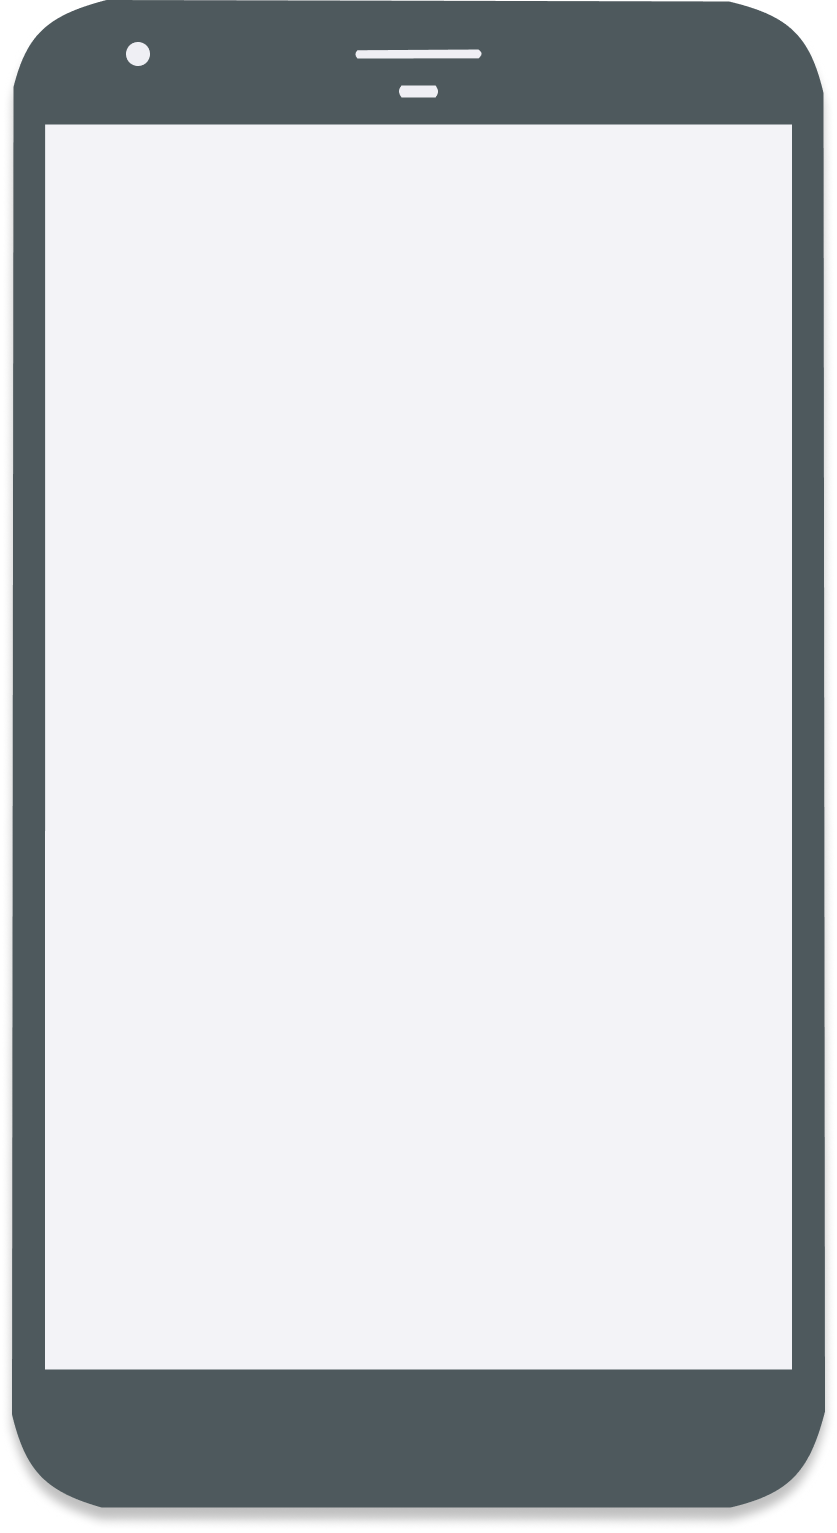
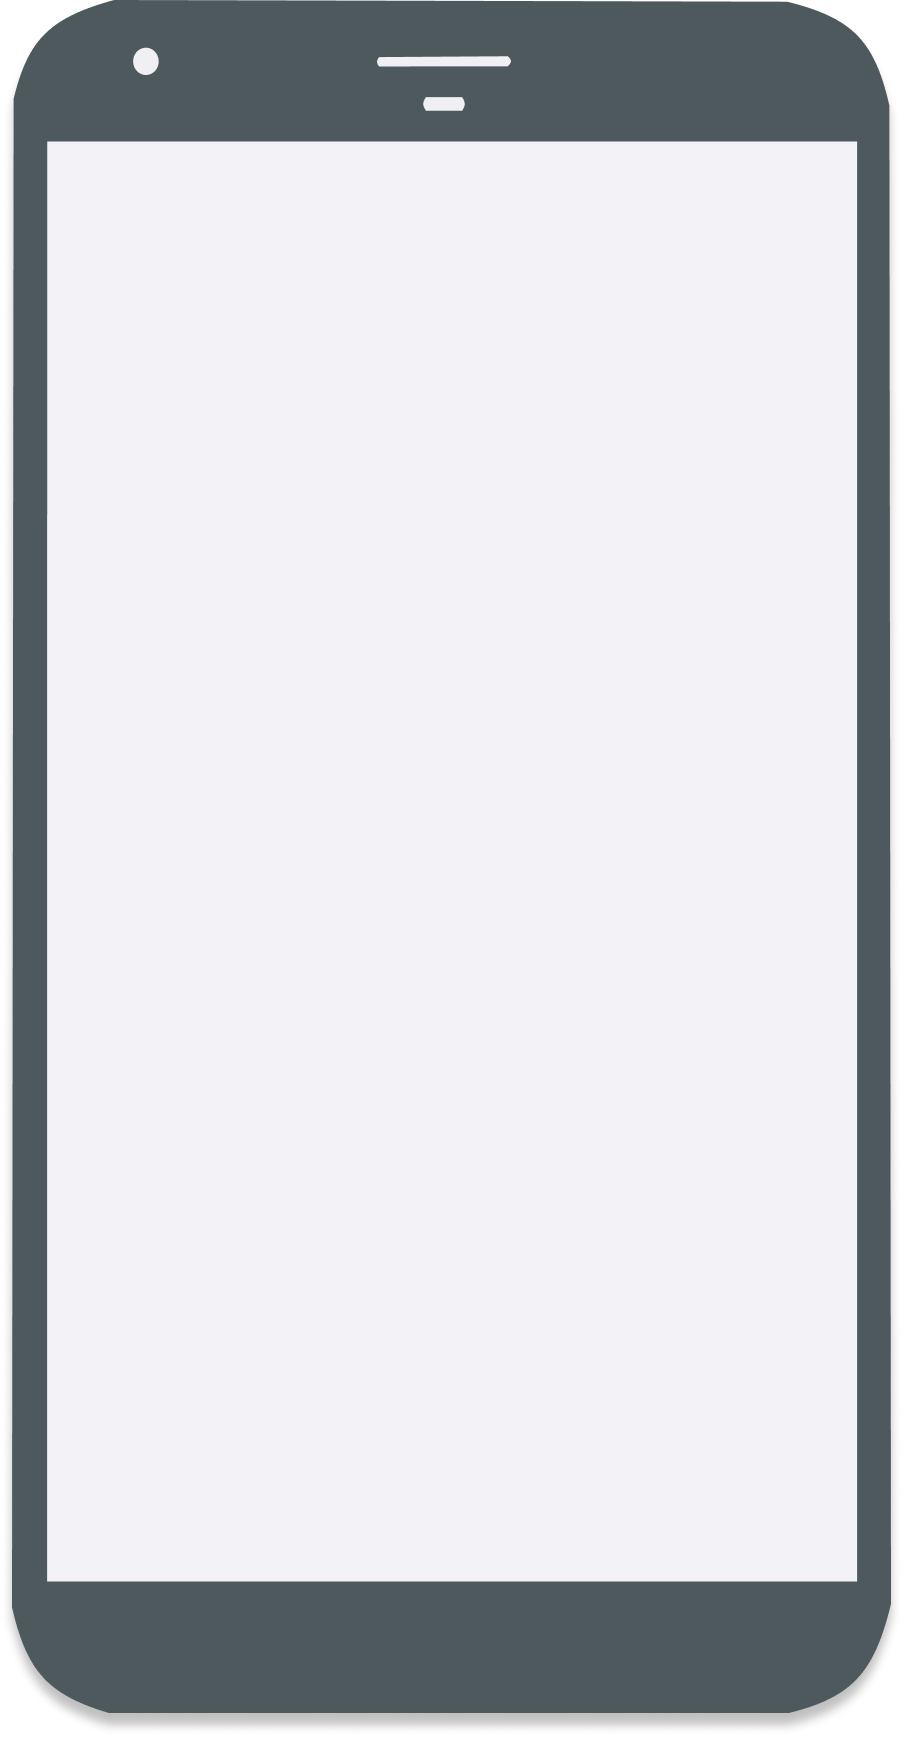
Add gif with hardcoded css

diff --git a/css/e8tbot.min.css b/css/e8tbot.min.css
@@ -1,5 +1,5 @@
 /*!
- * Start Bootstrap - E-8T Website v1.0.0 (https://lyzs90.github.io/e8tbot)
+ * Start Bootstrap - E-8T Website v1.0.0 (https://lyzs90.github.io/e8tbot-site)
  * Copyright 2013-2016 lyzs90
- * Licensed under MIT (https://github.com/lyzs90/e8tbot/LICENSE)
- */.alt-font,.btn{text-transform:uppercase}.heading-font{font-family:Catamaran,Helvetica,Arial,sans-serif;font-weight:200;letter-spacing:1px}.body-font{font-family:Muli,Helvetica,Arial,sans-serif}.alt-font{font-family:Lato,Helvetica,Arial,sans-serif;letter-spacing:2px}body,html{height:100%;width:100%}body{font-family:Muli,Helvetica,Arial,sans-serif;webkit-tap-highlight-color:#222}a{-webkit-transition:all .35s;-moz-transition:all .35s;transition:all .35s;color:#e57501}a:focus,a:hover{color:#b25b01}hr{max-width:100px;margin:25px auto 0;border-width:1px;border-color:rgba(34,34,34,.1)}hr.light{border-color:#fff}h1,h2,h3,h4,h5,h6{font-family:Catamaran,Helvetica,Arial,sans-serif;font-weight:200;letter-spacing:1px;color:#4E595D}p{font-size:18px;line-height:1.5;margin-bottom:20px}.invisible{visibility:hidden}header{position:relative;width:100%;min-height:auto;color:#fff}header .header-content{text-align:center;padding:0 0 50px;position:relative}header .header-content .header-content-inner{position:relative;max-width:500px;margin:0 auto}header .header-content .header-content-inner h1{margin-top:0;margin-bottom:0;font-size:30px}header .header-content .header-content-inner h1:after{display:inline-block;content:"";height:60px;width:60px;background:url(../img/e8t-logo.png) no-repeat;background-size:100%;vertical-align:-50%}header .header-content .header-content-inner hr.bar{border-color:gray;margin-top:10px;border-width:3px;max-width:50px}header .header-content .header-content-inner h3{margin-top:20px}header .img-responsive.device{margin:0 auto 100px;max-width:300px;max-height:550px}@media (min-width:768px){body,html{overflow-y:hidden}header{min-height:100%}header .header-content{text-align:left;padding:0;height:300vh}header .header-content .header-content-inner{max-width:none;margin:0;position:absolute;top:10%;transform:translateY(-50%)}header .header-content .header-content-inner h1{font-size:35px}header .header-content .header-content-inner hr.bar{margin-left:0}header .img-responsive.device{margin-top:50px;max-height:550px}}@media (min-width:992px){body,html{overflow-y:hidden}header .header-content .header-content-inner{top:15%}header .header-content .header-content-inner h1{font-size:50px}header .header-content .header-content-inner h1:after{height:100px;width:100px}}.bg-primary{background:#e57501;background:-webkit-linear-gradient(#e57501,#cc6801);background:linear-gradient(#e57501,#cc6801)}.text-primary{color:#e57501}.no-gutter>[class*=col-]{padding-right:0;padding-left:0}.btn-outline{color:gray;border:1px solid}.btn-outline.active,.btn-outline:active,.btn-outline:focus,.btn-outline:hover{color:#fff;background-color:#e57501;border-color:#e57501}.btn{font-family:Lato,Helvetica,Arial,sans-serif;letter-spacing:2px;border-radius:300px}.btn-xl{padding:15px 45px;font-size:11px}::-moz-selection{color:#fff;text-shadow:none;background:#222}::selection{color:#fff;text-shadow:none;background:#222}img::selection{color:#fff;background:0 0}img::-moz-selection{color:#fff;background:0 0}
+ * Licensed under MIT (https://github.com/lyzs90/e8tbot-site/LICENSE)
+ */.alt-font,.btn{text-transform:uppercase}.heading-font{font-family:Catamaran,Helvetica,Arial,sans-serif;font-weight:200;letter-spacing:1px}.body-font{font-family:Muli,Helvetica,Arial,sans-serif}.alt-font{font-family:Lato,Helvetica,Arial,sans-serif;letter-spacing:2px}body,html{height:100%;width:100%}body{font-family:Muli,Helvetica,Arial,sans-serif;webkit-tap-highlight-color:#222}a{-webkit-transition:all .35s;-moz-transition:all .35s;transition:all .35s;color:#e57501}a:focus,a:hover{color:#b25b01}hr{max-width:100px;margin:25px auto 0;border-width:1px;border-color:rgba(34,34,34,.1)}hr.light{border-color:#fff}h1,h2,h3,h4,h5,h6{font-family:Catamaran,Helvetica,Arial,sans-serif;font-weight:200;letter-spacing:1px;color:#4E595D}p{font-size:18px;line-height:1.5;margin-bottom:20px}.invisible{visibility:hidden}header{position:relative;width:100%;min-height:auto;color:#fff}header .header-content{text-align:center;padding:0 0 50px;position:relative}header .header-content .header-content-inner{position:relative;max-width:500px;margin:0 auto}header .header-content .header-content-inner h1{margin-top:0;margin-bottom:0;font-size:30px}header .header-content .header-content-inner h1:after{display:inline-block;content:"";height:60px;width:60px;background:url(../img/e8t-logo.png) no-repeat;background-size:100%;vertical-align:-50%}header .header-content .header-content-inner hr.bar{border-color:#e57501;margin-top:10px;border-width:3px;max-width:50px}header .header-content .header-content-inner h3{margin-top:20px}header .img-responsive.device.before{position:absolute;z-index:2;marign:0 auto;left:0;right:0;bottom:0}header .img-responsive.device{margin:0 auto 48px;max-width:298px}@media (min-width:768px){body,html{overflow-y:hidden}header{min-height:100%}header .header-content{text-align:left;padding:0;height:300vh}header .header-content .header-content-inner{max-width:none;margin:0;position:absolute;top:10%;transform:translateY(-50%)}header .header-content .header-content-inner h1{font-size:35px}header .header-content .header-content-inner hr.bar{margin-left:0}header .img-responsive.device.before{margin:0 auto;top:95px;left:15px}header .img-responsive.device{margin:50px 0 48px}}@media (min-width:992px){body,html{overflow-y:hidden}header .header-content .header-content-inner{top:15%}header .header-content .header-content-inner h1{font-size:50px}header .header-content .header-content-inner h1:after{height:100px;width:100px}header .img-responsive.device.before{bottom:48px;left:28px;right:0;margin:0}}.bg-primary{background:#e57501;background:-webkit-linear-gradient(#e57501,#cc6801);background:linear-gradient(#e57501,#cc6801)}.text-primary{color:#e57501}.no-gutter>[class*=col-]{padding-right:0;padding-left:0}.btn-outline{color:gray;border:1px solid}.btn-outline.active,.btn-outline:active,.btn-outline:focus,.btn-outline:hover{color:#fff;background-color:#e57501;border-color:#e57501}.btn{font-family:Lato,Helvetica,Arial,sans-serif;letter-spacing:2px;border-radius:300px}.btn-xl{padding:15px 45px;font-size:11px}::-moz-selection{color:#fff;text-shadow:none;background:#222}::selection{color:#fff;text-shadow:none;background:#222}img::selection{color:#fff;background:0 0}img::-moz-selection{color:#fff;background:0 0}

diff --git a/css/e8tbot.css b/css/e8tbot.css
@@ -1,7 +1,7 @@
 /*!
- * Start Bootstrap - E-8T Website v1.0.0 (https://lyzs90.github.io/e8tbot)
+ * Start Bootstrap - E-8T Website v1.0.0 (https://lyzs90.github.io/e8tbot-site)
  * Copyright 2013-2016 lyzs90
- * Licensed under MIT (https://github.com/lyzs90/e8tbot/LICENSE)
+ * Licensed under MIT (https://github.com/lyzs90/e8tbot-site/LICENSE)
  */
 .heading-font {
   font-family: 'Catamaran', 'Helvetica', 'Arial', 'sans-serif';
@@ -110,7 +110,7 @@ header .header-content .header-content-inner h1:after {
   vertical-align: -50%;
 }
 header .header-content .header-content-inner hr.bar {
-  border-color: gray;
+  border-color: #e57501;
   margin-top: 10px;
   border-width: 3px;
   max-width: 50px;
@@ -118,10 +118,17 @@ header .header-content .header-content-inner hr.bar {
 header .header-content .header-content-inner h3 {
   margin-top: 20px;
 }
+header .img-responsive.device.before {
+  position: absolute;
+  z-index: 2;
+  marign: 0 auto;
+  left: 0;
+  right: 0;
+  bottom: 0;
+}
 header .img-responsive.device {
-  margin: 0 auto 100px;
-  max-width: 300px;
-  max-height: 550px;
+  margin: 0 auto 48px;
+  max-width: 298px;
 }
 @media (min-width: 768px) {
   header {
@@ -145,9 +152,13 @@ header .img-responsive.device {
   header .header-content .header-content-inner hr.bar {
     margin-left: 0;
   }
+  header .img-responsive.device.before {
+    margin: 0 auto;
+    top: 95px;
+    left: 15px;
+  }
   header .img-responsive.device {
-    margin-top: 50px;
-    max-height: 550px;
+    margin: 50px 0px 48px 0px;
   }
 }
 @media (min-width: 992px) {
@@ -160,6 +171,12 @@ header .img-responsive.device {
   header .header-content .header-content-inner h1:after {
     height: 100px;
     width: 100px;
+  }
+  header .img-responsive.device.before {
+    bottom: 48px;
+    left: 28px;
+    right: 0;
+    margin: 0;
   }
 }
 .bg-primary {

diff --git a/js/e8tbot.min.js b/js/e8tbot.min.js
@@ -1,6 +1,6 @@
 /*!
- * Start Bootstrap - E-8T Website v1.0.0 (https://lyzs90.github.io/e8tbot)
+ * Start Bootstrap - E-8T Website v1.0.0 (https://lyzs90.github.io/e8tbot-site)
  * Copyright 2013-2016 lyzs90
- * Licensed under MIT (https://github.com/lyzs90/e8tbot/LICENSE)
+ * Licensed under MIT (https://github.com/lyzs90/e8tbot-site/LICENSE)
  */
-!function(a){"use strict";a(document).ready(function(){setTimeout(function(){a("#animateObj1").removeClass("invisible"),a("#animateObj1").addClass("animated bounce")},500),setTimeout(function(){a("#animateObj2").removeClass("invisible"),a("#animateObj2").addClass("animated fadeIn")},1500),setTimeout(function(){a("#animateObj3").removeClass("invisible"),a("#animateObj3").addClass("animated fadeIn")},2500),setTimeout(function(){a("#animateObj4").removeClass("invisible"),a("#animateObj4").addClass("animated gray fadeIn")},3500)})}(jQuery);
+!function(a){"use strict";a(document).ready(function(){setTimeout(function(){a("#animateObj1").removeClass("invisible"),a("#animateObj1").addClass("animated bounce")},500),setTimeout(function(){a("#animateObj2").removeClass("invisible"),a("#animateObj2").addClass("animated fadeIn")},1500),setTimeout(function(){a("#animateObj3").removeClass("invisible"),a("#animateObj3").addClass("animated fadeIn")},2500),setTimeout(function(){a("#animateObj4").removeClass("invisible"),a("#animateObj4").addClass("animated gray fadeIn")},3500),setTimeout(function(){a("#animateObj5").removeClass("invisible"),a("#animateObj5").addClass("animated gray fadeIn")},4500)})}(jQuery);

diff --git a/less/e8tbot.less b/less/e8tbot.less
@@ -94,7 +94,7 @@ header {
                 vertical-align: -50%;
             }
             hr.bar {
-                border-color: gray;
+                border-color: @theme-primary;
                 margin-top: 10px;
                 border-width: 3px;
                 max-width: 50px;
@@ -104,10 +104,17 @@ header {
             }
         }
     }
+    .img-responsive.device.before {
+        position: absolute;
+        z-index: 2;
+        marign: 0 auto;
+        left: 0;
+        right: 0;
+        bottom: 0;
+    }
     .img-responsive.device {
-        margin: 0 auto 100px;
-        max-width: 300px;
-        max-height: 550px;
+        margin: 0 auto 48px;
+        max-width: 298px;
     }
     @media (min-width: 768px) { // Ipad
         min-height: 100%;
@@ -129,9 +136,13 @@ header {
                 }
             }
         }
+        .img-responsive.device.before {
+            margin: 0 auto;
+            top: 95px;
+            left: 15px
+        }
         .img-responsive.device {
-            margin-top: 50px;
-            max-height: 550px;
+            margin: 50px 0px 48px 0px;
         }
     }
     @media (min-width: 992px) { // Desktop
@@ -146,6 +157,12 @@ header {
                     width: 100px;
                 }
             }
+        }
+        .img-responsive.device.before {
+            bottom: 48px;
+            left: 28px;
+            right: 0;
+            margin: 0;
         }
     }
 }

diff --git a/index.html b/index.html
@@ -49,11 +49,12 @@
                                 <h3>E-8T ('EAT') is a food recommendation bot that helps you find great eats nearby!</h3>
                             </div>
                             <br>
-                            <a id="animateObj4" href="https://m.me/e8tbot" class="btn btn-outline btn-xl invisible">Facebook Messenger</a>
+                            <a id="animateObj5" href="https://m.me/e8tbot" class="btn btn-outline btn-xl invisible">Facebook Messenger</a>
                         </div>
                     </div>
                 </div>
                 <div class="col-sm-5">
+                    <img id="animateObj4" src="img/giphy.gif" class="img-responsive device before invisible" alt="">
                     <img id="animateObj3" src="img/pixel.png" class="img-responsive device invisible" alt="">
                 </div>
             </div>

diff --git a/js/e8tbot.js b/js/e8tbot.js
@@ -19,6 +19,10 @@
             $("#animateObj4").removeClass("invisible");
             $("#animateObj4").addClass("animated gray fadeIn");
         }, 3500);
+        setTimeout(function(){
+            $("#animateObj5").removeClass("invisible");
+            $("#animateObj5").addClass("animated gray fadeIn");
+        }, 4500);
     });
 
 })(jQuery); // End of use strict
